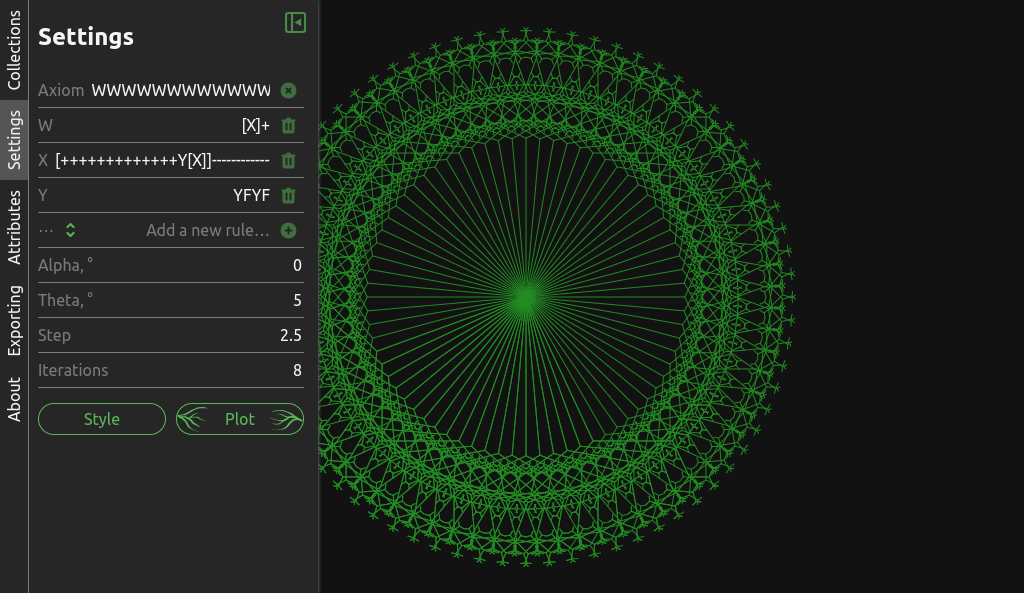
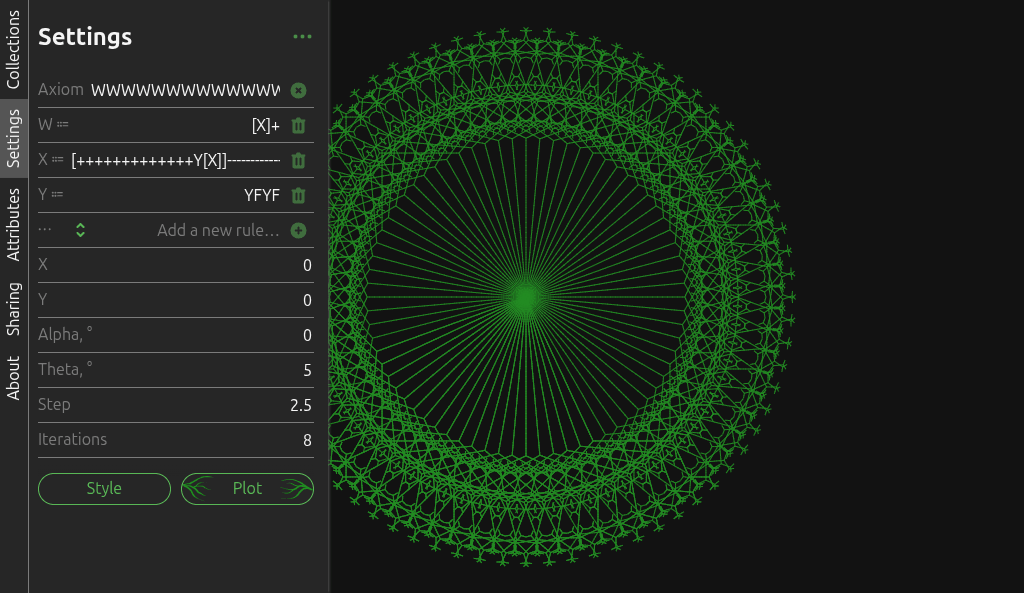
Minor fixes

diff --git a/src/components/SheetsSlider.vue b/src/components/SheetsSlider.vue
@@ -19,6 +19,7 @@ function updateSheetIndex() {
 watch(() => lSystemStore.subLSystemIndex, async (subLSystemIndex) => {
   if (subLSystemIndex !== sheetIndex.value) {
     await nextTick();
+    sheetIndex.value = subLSystemIndex;
     sheetsRef.value?.children[subLSystemIndex]?.scrollIntoView({behavior: SCROLL_BEHAVIOR, container: "nearest"});
   }
 });